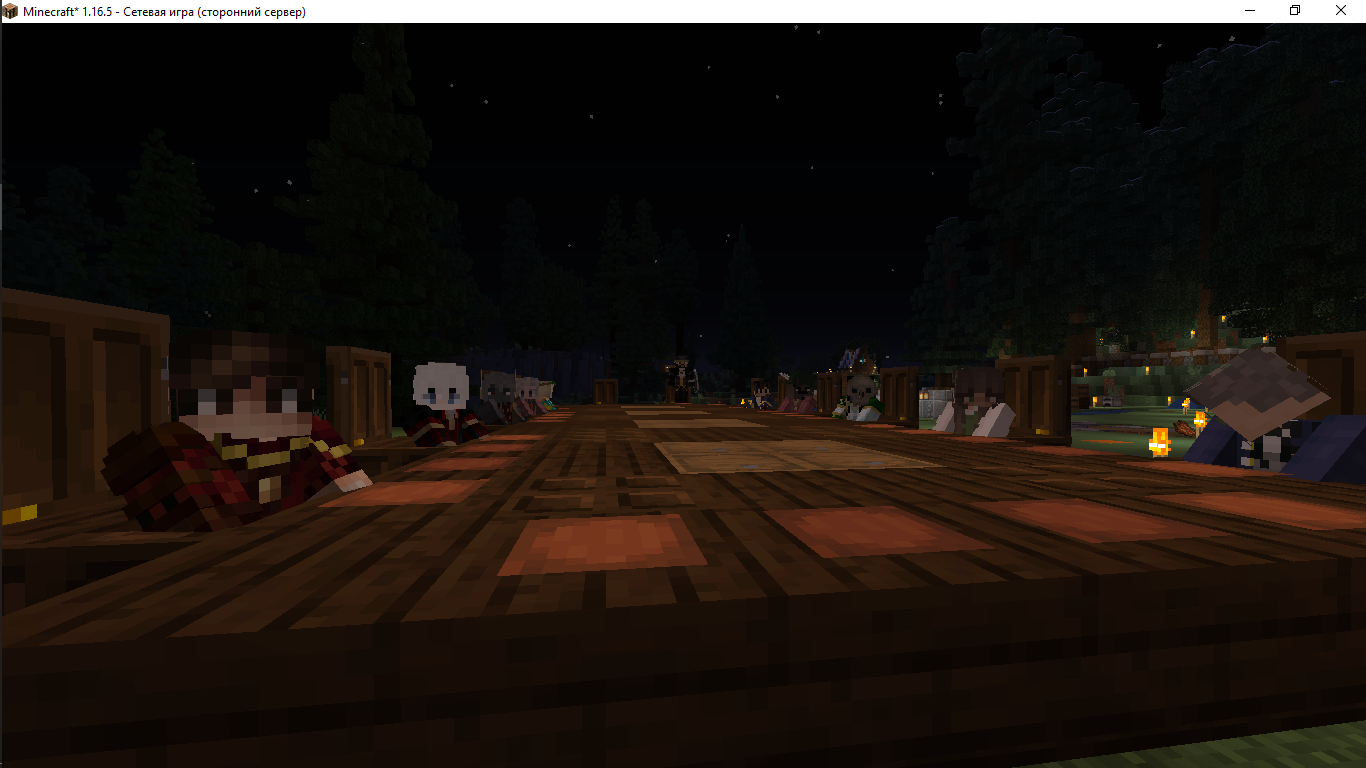
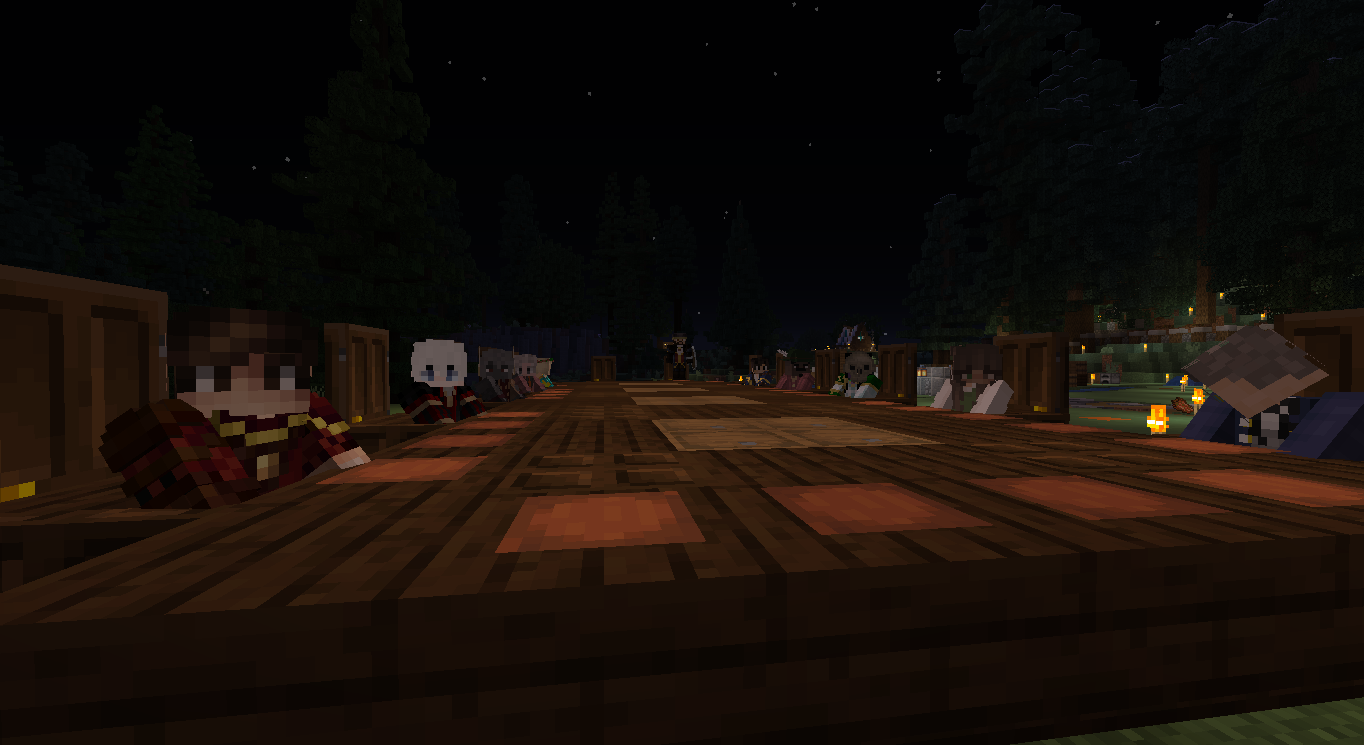
Edit Image

diff --git a/js/datajs/gallery.js b/js/datajs/gallery.js
@@ -38,7 +38,7 @@ var gallery = [
             "./img/Event/Медовый Фестиваль№8.png",
             "./img/Event/Медовый Фестиваль№9.png",
             "./img/Event/Медовый Фестиваль№10.png",
-            // "./img/Event/Медовый Фестиваль№11.png"
+            "./img/Event/Медовый Фестиваль№11.png"
         ],
         "date": "14.07.2021"
     }
